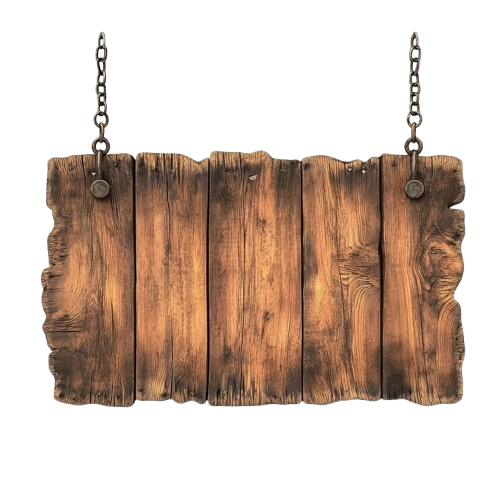
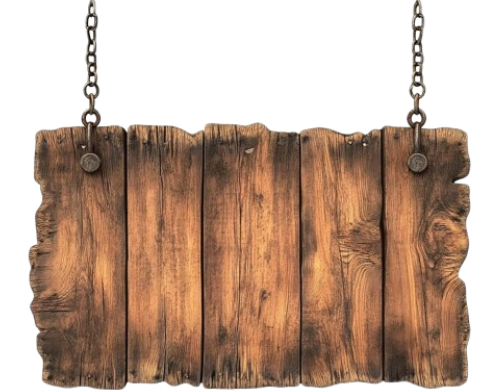
haciendo pag civilizacion

diff --git a/m4/public/estils.css b/m4/public/estils.css
@@ -33,6 +33,7 @@ header{
     position: sticky;
     top: 0;
     z-index: 100;
+    border-bottom: 2px solid beige;
 }
 
 nav{
@@ -329,7 +330,7 @@ body:has(#slide3:checked) .dots label:nth-child(3){
     transition: all 0.3s;
 }
 
-.verdetalles:hover,.volver:hover{
+.verdetalles:hover, .volver:hover{
     color: rgb(114, 46, 46);
     letter-spacing: 1px;
 }
@@ -358,4 +359,50 @@ body:has(#slide3:checked) .dots label:nth-child(3){
 
 .volver{
     font-size: x-large;
+}
+
+/* ------------------------ civilizacion ------------------------ */
+.civilizaciones{
+    display: flex;
+    flex-wrap: wrap;
+    padding-bottom: 100px;
+    justify-content: center;
+}
+
+.cartel{
+    background-image: url("./img/cartel_colgado.png");
+    background-size: contain;
+    background-position: top;
+    background-repeat: no-repeat;
+    filter: drop-shadow(0 15px 30px rgba(0, 0, 0, 0.7));
+    width: 500px;
+    height: 370px;
+    display: flex;
+    justify-content: center;
+    align-items: flex-end; /* lo manda hacia la parte inferior */
+    animation: animacion_entrada 0.4s ease-in;
+}
+
+.cartel_contenido{
+    width: 69%;
+    height: 60%; /* solo zona del cartel */
+    display: flex;
+    flex-direction: column;
+    justify-content: center;
+    align-items: center;
+    text-align: center;
+    overflow: hidden;
+    word-break: break-word;
+}
+
+.cartel_contenido a{
+    font-size: 40px;
+    font-weight: bolder;
+    color: black;
+    transition: all 0.3s ease-in-out;
+}
+
+.cartel_contenido a:hover{
+    color: rgb(114, 46, 46);
+    transform: scale(1.05);
 }

diff --git a/m4/server/app.js b/m4/server/app.js
@@ -64,6 +64,14 @@ app.get('/batallas', async (req, res) => {
   res.render('batallas');
 });
 
+app.get('/informe', async (req, res) => {
+  res.render('informe');
+});
+
+app.get('/civilizaciones', async (req, res) => {
+  res.render('civilizaciones');
+});
+
 app.get('/civilizacion', async (req, res) => {
   res.render('civilizacion');
 });
@@ -72,15 +80,11 @@ app.get('/programadores', async (req, res) => {
   res.render('programadores');
 });
 
-app.get('/informe', async (req, res) => {
-  res.render('informe');
-});
-
 // Start server
 const httpServer = app.listen(port, () => {
   console.log(`http://localhost:${port}`);
   console.log(`http://localhost:${port}/batallas`);
-  console.log(`http://localhost:${port}/civilizacion`);
+  console.log(`http://localhost:${port}/civilizaciones`);
   console.log(`http://localhost:${port}/programadores`);
 });
 